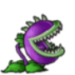
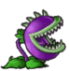
modif

diff --git a/src/Chomper.java b/src/Chomper.java
@@ -1,10 +1,19 @@
+import java.awt.Image;
+import javax.swing.ImageIcon;
 import java.util.List;
 
 public class Chomper extends Plantes {
     private long recharge;
+    private int indiceImage;
+    private Image[] imageRecharge;
 
     public Chomper(int x, int y) {
         super(300, 800, 'c', x, y, 150, new String[] { "/Images/Chomper1.png", "/Images/Chomper0.png" });
+        String[] path = { "/Images/ChomperDigest.png", "/Images/ChomperDigest1.png" };
+        imageRecharge = new Image[path.length];
+        for (int i = 0; i < path.length; i++) {
+            imageRecharge[i] = new ImageIcon(getClass().getResource(path[i])).getImage();
+        }
     }
 
     @Override
@@ -33,6 +42,29 @@ public class Chomper extends Plantes {
     @Override
     public void arrose() {
         degat *= 1.5;
+    }
+
+    @Override
+    public Image getImage() {
+        if (System.currentTimeMillis() - recharge > 30000) {
+            return super.getImage();
+        } else {
+            if (System.currentTimeMillis() - recharge < 500) {
+                Image i =new ImageIcon(getClass().getResource("/Images/ChomperAttack.png")).getImage();
+                return i;
+            }
+            if (indiceImage == imageRecharge.length) {
+                indiceImage = 0;
+            }
+            if (System.currentTimeMillis() - changeImage > 500) {
+                changeImage = System.currentTimeMillis();
+                return imageRecharge[indiceImage++];
+            } else {
+                return imageRecharge[indiceImage];
+            }
+
+        }
+
     }
 
 }

diff --git a/src/GameScene.java b/src/GameScene.java
@@ -13,7 +13,7 @@ public class GameScene extends JPanel {
     private Image planche;
     private Plateau plateau;
     private int[] tailleHerbeX = { 240, 338, 411, 496, 572, 662, 738, 816, 893, 980 };
-    private int[] tailleHerbeY = { 60, 176, 275, 383, 476, 573 };
+    private int[] tailleHerbeY = { 60, 176, 275, 378, 476, 573 };
     private JLabel nbsoleil;
     private Game game;
     private ArrayList<Item> listCarte;

diff --git a/src/Plantes.java b/src/Plantes.java
@@ -1,12 +1,11 @@
 import java.awt.Image;
 import java.util.List;
-
 import javax.swing.ImageIcon;
 
 public abstract class Plantes {
     protected int vie, degat;
     private char nom;
-    private long changeImage;
+    protected long changeImage;
     protected int x, y;
     private int couts, indiceImage;
     private Image[] image;
